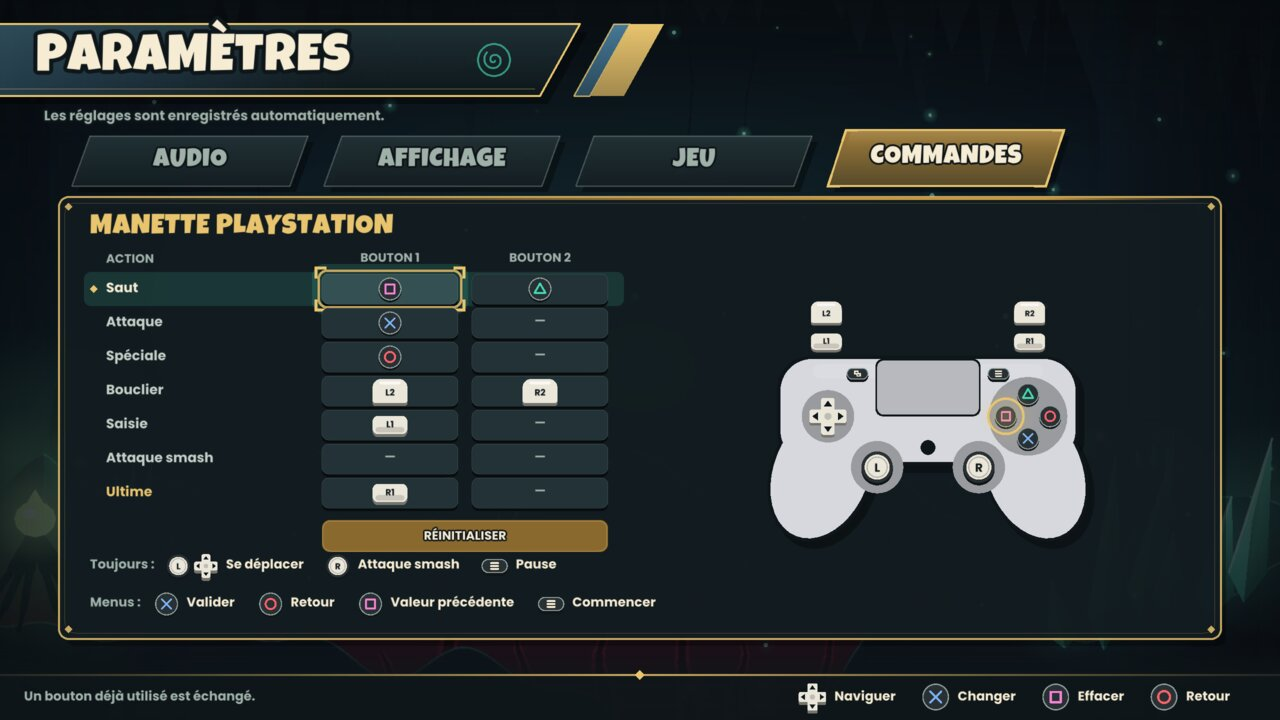
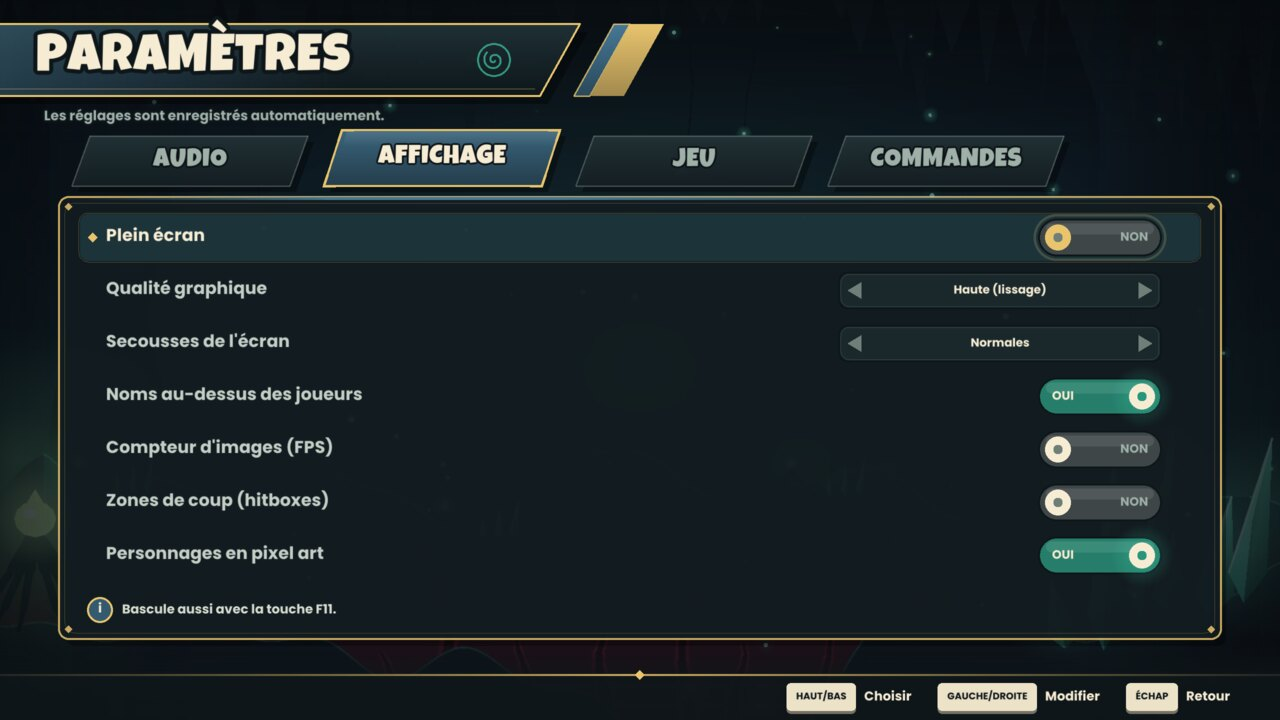
Version 5.0: pixel-art toggle, element-colored effects, docs and packaging
- Settings: "Personnages en pixel art" toggle in the Affichage tab
- Explosions and hit sparks take the color of their element
- Fonts: glyphs for ō/ū so ultimate names render correctly in cut-ins
- Title screen and packaging bumped to 5.0
- README rewritten for the 15 fighters, 45 ultimates, transformations,
  CPU level 10 and pixel-art characters; screenshots regenerated

Claude-Session: https://claude.ai/code/session_01FnHjUgjm12ACzaJgKtXDcE

diff --git a/src/game/screen_settings.cpp b/src/game/screen_settings.cpp
@@ -14,7 +14,7 @@ struct RowInfo {
   const char* label;
   const char* help;
 };
-const RowInfo kRows[3][6] = {
+const RowInfo kRows[3][7] = {
     {{"Volume général", "Volume de tout le jeu."},
      {"Musique", "Volume des musiques des menus et des combats."},
      {"Effets sonores", "Coups, sauts, K.O., cris de la foule..."},
@@ -24,20 +24,21 @@ const RowInfo kRows[3][6] = {
      {"Secousses de l'écran", "Tremblements de la caméra lors des gros coups et des K.O."},
      {"Noms au-dessus des joueurs", "Affiche J1, J2... ou CPU au-dessus de chaque combattant."},
      {"Compteur d'images (FPS)", "Affiche le nombre d'images par seconde en haut à gauche."},
-     {"Zones de coup (hitboxes)", "Montre les zones d'attaque pendant les combats (touche F1)."}},
+     {"Zones de coup (hitboxes)", "Montre les zones d'attaque pendant les combats (touche F1)."},
+     {"Personnages en pixel art", "Les combattants sont dessinés comme des sprites en pixel art (les menus restent lisses)."}},
     {{"Vies par défaut", "Nombre de vies de chaque combattant au début d'un match."},
      {"Orbe Clash", "L'orbe flottante qui remplit d'un coup la barre d'ulti."},
      {"Armes", "Des armes tombent du ciel : chaque combattant ramasse les siennes en marchant dessus."},
      {"Niveau des ordinateurs", "Niveau par défaut des combattants contrôlés par l'ordinateur (1 à 10 : le niveau 10 frappe deux fois plus fort)."},
      {"Tout réinitialiser", "Remet tous les paramètres et toutes les touches par défaut."}},
 };
-const int kRowCounts[4] = {4, 6, 5, kActionCount + 1};  // controls: the actions + the reset buttons
+const int kRowCounts[4] = {4, 7, 5, kActionCount + 1};  // controls: the actions + the reset buttons
 
 Rectangle tabRect(int i) { return {72.0f + i * 252.0f, 136, 236, 50}; }
-Rectangle rowRect(int row) { return {kPanel.x + 20, kPanel.y + 20 + row * 60.0f, kPanel.width - 40, 52}; }
+Rectangle rowRect(int row) { return {kPanel.x + 20, kPanel.y + 16 + row * 53.0f, kPanel.width - 40, 47}; }
 Rectangle widgetRect(int row) {
   Rectangle r = rowRect(row);
-  return {r.x + 640, r.y + 9, 440, 34};
+  return {r.x + 640, r.y + 6.5f, 440, 34};
 }
 Rectangle sliderRect(int row) {
   Rectangle w = widgetRect(row);
@@ -306,6 +307,7 @@ void App::changeSetting(int row, int delta) {
       if (row == 3) s.playerTags = !s.playerTags;
       if (row == 4) s.showFps = !s.showFps;
       if (row == 5) s.showHitboxes = !s.showHitboxes;
+      if (row == 6) s.pixelArt = !s.pixelArt;
       break;
     case 2:
       if (row == 0) s.stocks = 1 + (s.stocks - 1 + delta + 5) % 5;
@@ -567,7 +569,7 @@ void App::drawSettings() {
         ui::diamond({rr.x + 13, rr.y + rr.height * 0.5f}, 5, ui::kGold);
         help = kRows[setTab_][r].help;
       }
-      drawText(kRows[setTab_][r].label, rr.x + 26, rr.y + 12, 24, foc ? ui::kCream : Color{196, 206, 198, 255});
+      drawText(kRows[setTab_][r].label, rr.x + 26, rr.y + 9, 24, foc ? ui::kCream : Color{196, 206, 198, 255});
       Rectangle w = widgetRect(r);
       switch (widgetFor(setTab_, r)) {
         case Widget::Slider: {
@@ -577,7 +579,11 @@ void App::drawSettings() {
           break;
         }
         case Widget::Toggle: {
-          bool on = setTab_ == 1 ? (r == 0 ? s.fullscreen : r == 3 ? s.playerTags : r == 4 ? s.showFps : s.showHitboxes)
+          bool on = setTab_ == 1 ? (r == 0   ? s.fullscreen
+                                    : r == 3 ? s.playerTags
+                                    : r == 4 ? s.showFps
+                                    : r == 6 ? s.pixelArt
+                                             : s.showHitboxes)
                                  : r == 2 ? s.weapons : s.items;
           ui::toggle({w.x + w.width - 120, w.y, 120, w.height}, on, foc, t);
           break;

diff --git a/src/game/fx.cpp b/src/game/fx.cpp
@@ -309,16 +309,18 @@ void Fx::elementBurst(Vec2 pos, Vec2 dir, HitFx fx, float heavy) {
 }
 
 void Fx::explosion(Vec2 pos, float r, HitFx fx) {
-  const bool cursed = fx == HitFx::Cursed;
-  const Color hot = cursed ? Color{255, 150, 190, 255} : Color{255, 238, 170, 255};
-  const Color mid = cursed ? Color{220, 40, 90, 255} : Color{255, 120, 30, 255};
+  // Fire and plain blasts burn orange; the other elements explode in their own colours.
+  const bool fiery = fx == HitFx::Fire || fx == HitFx::Normal || fx == HitFx::Slash;
+  const bool elemental = !fiery;
+  const Color hot = fx == HitFx::Cursed ? Color{255, 150, 190, 255} : fiery ? Color{255, 238, 170, 255} : hitFxGlow(fx);
+  const Color mid = fx == HitFx::Cursed ? Color{220, 40, 90, 255} : fiery ? Color{255, 120, 30, 255} : hitFxColor(fx);
   add(PK::Flash, pos, {}, 12, r * 0.6f, r * 2.0f, hot);
   Particle& b = add(PK::Burst, pos, {}, 11, r * 0.9f, r * 2.4f, hot);
   b.rot = rng_.range(0, 2 * kPi);
   for (int i = 0; i < 7; ++i) {
     Particle& p = add(PK::Fireball, pos + rdir() * rng_.range(0.0f, r * 0.35f), rdir() * 1.6f + Vec2{0.0f, -0.6f},
                       rng_.range(22, 34), r * 0.25f, r * rng_.range(0.6f, 0.9f), hot, -0.02f, 0.93f);
-    p.color2 = cursed ? Color{50, 10, 50, 255} : Color{56, 46, 44, 255};
+    p.color2 = elemental ? shade(mid, 0.3f) : Color{56, 46, 44, 255};
   }
   add(PK::Ring, pos, {}, 16, r * 0.3f, r * 1.9f, withAlpha(WHITE, 0.9f));
   add(PK::Ring, pos, {}, 24, r * 0.2f, r * 2.6f, withAlpha(mid, 0.7f));
@@ -326,7 +328,7 @@ void Fx::explosion(Vec2 pos, float r, HitFx fx) {
   for (int i = 0; i < 10; ++i) {
     Vec2 v = rdir() * rng_.range(4.0f, 11.0f);
     v.y = -std::fabs(v.y) - 2.0f;
-    add(PK::Debris, pos, v, rng_.range(30, 46), rng_.range(3.0f, 6.0f), 0.0f, cursed ? Color{80, 30, 70, 255} : Color{86, 74, 66, 255},
+    add(PK::Debris, pos, v, rng_.range(30, 46), rng_.range(3.0f, 6.0f), 0.0f, elemental ? shade(mid, 0.45f) : Color{86, 74, 66, 255},
         0.45f, 0.98f);
   }
   for (int i = 0; i < 14; ++i)

diff --git a/src/game/screen_title.cpp b/src/game/screen_title.cpp
@@ -157,7 +157,7 @@ void App::drawTitle() {
     drawTextOutlined(txt, x, 368, 26, withAlpha(ui::kCream, a), withAlpha(ui::kInk, a), 2.5f);
     ui::prompt("ENTRÉE", ui::Btn::Start, x + textWidth(txt, 26) + 14, 381 - ph * 0.5f, ph, true);
   }
-  drawTextOutlined("v4.0", kScreenW - 54, kScreenH - 26, 15, ui::kCream, ui::kInk, 2.0f);
+  drawTextOutlined("v5.0", kScreenW - 54, kScreenH - 26, 15, ui::kCream, ui::kInk, 2.0f);
   drawTextOutlined("C++ & raylib", 16, kScreenH - 26, 15, ui::kCream, ui::kInk, 2.0f);
   if (f >= 22 && f < 40) DrawRectangle(0, 0, kScreenW, kScreenH, withAlpha({255, 248, 228, 255}, (40 - f) / 18.0f * 0.7f));
 }

diff --git a/src/game/match_screen.cpp b/src/game/match_screen.cpp
@@ -328,7 +328,7 @@ MatchScreen::Result MatchScreen::update() {
   if (ultShow_ >= -1 && !ultFired_ && m_.started() && m_.fighters.size() >= 2) {
     Fighter& f = m_.fighters[0];
     Fighter& v = m_.fighters[1];
-    if (m_.frame % 30 == 0 && f.grounded && v.grounded) {  // both standing: face off, then the ultimate
+    if (m_.frame > 260 && m_.frame % 30 == 0 && f.grounded && v.grounded) {  // after "GO!", both standing
       if (ultShow_ >= 0 && f.weapon != ultShow_) m_.equipWeapon(f, ultShow_);
       f.pos = {-170.0f, 0.0f};
       f.facing = 1;

diff --git a/src/game/fonts.cpp b/src/game/fonts.cpp
@@ -18,6 +18,7 @@ std::vector<int> frenchCodepoints() {
   for (int c = 32; c < 127; ++c) cps.push_back(c);
   for (int c = 160; c < 256; ++c) cps.push_back(c);  // Latin-1: é è à ç ô « » ...
   for (int c : {0x152, 0x153, 0x2013, 0x2014, 0x2019, 0x201C, 0x201D, 0x2022, 0x2026, 0x20AC}) cps.push_back(c);
+  for (int c : {0x14C, 0x14D, 0x16A, 0x16B}) cps.push_back(c);  // Ō ō Ū ū (Tenshō, Bijūdama...)
   return cps;
 }
 

diff --git a/src/game/common.hpp b/src/game/common.hpp
@@ -101,7 +101,7 @@ inline std::string upperFr(std::string s) {
       ++i;
     } else if (c == 0xC5 && i + 1 < s.size()) {
       unsigned char d = (unsigned char)s[i + 1];
-      if (d == 0x8D || d == 0x93) s[i + 1] = char(d - 1);  // ō, œ
+      if (d == 0x8D || d == 0x93 || d == 0xAB) s[i + 1] = char(d - 1);  // ō, œ, ū
       ++i;
     }
   }

diff --git a/README.md b/README.md
@@ -5,53 +5,75 @@ on fait monter le **pourcentage de dégâts** de l'adversaire jusqu'à pouvoir l
 
 ![Écran titre](docs/titre.jpg)
 
-Les personnages sont dessinés et animés par le code (squelette + cinématique inverse), les sons et la
-musique sont synthétisés au lancement. Les seules ressources sont deux polices libres et la base de
-manettes SDL, intégrées directement dans l'exécutable : il n'y a aucun fichier à installer à côté.
+Les personnages sont dessinés et animés par le code (squelette + cinématique inverse) puis affichés en
+**pixel art**, comme des sprites faits à la main (contour sombre d'un pixel, aplats francs) ; les menus,
+les arènes et les effets restent lisses. Les sons et la musique sont synthétisés au lancement. Les seules
+ressources sont deux polices libres et la base de manettes SDL, intégrées directement dans l'exécutable :
+il n'y a aucun fichier à installer à côté.
 
-La direction artistique s'inspire de *Zelda: Tears of the Kingdom* : îles célestes, ruines Zonaï aux
-runes turquoise, profondeurs éclairées par des racines lumineuses, personnages en ombrage « peint ».
-Tout est dessiné par le code (aucune image ni logo repris du jeu).
+La direction artistique des arènes s'inspire de *Zelda: Tears of the Kingdom* : îles célestes, ruines
+Zonaï aux runes turquoise, profondeurs éclairées par des racines lumineuses. Tout est dessiné par le code
+(aucune image ni logo repris d'un jeu ou d'un manga).
 
-| Menu principal | Sélection des 9 combattants (icônes manette) |
+| Menu principal | Sélection des 15 combattants |
 |---|---|
 | ![Menu principal](docs/menu.jpg) | ![Sélection](docs/selection.jpg) |
-| **Choix de l'arène** | **Combat : la hache de Kratos tombe du ciel** |
-| ![Arène](docs/arene.jpg) | ![Combat](docs/combat.jpg) |
-| **Cut-in d'ultime : Sphère de l'Infini (Gojo)** | **Ultime : Sanctuaire démoniaque (Sukuna)** |
-| ![Cut-in](docs/cutin.jpg) | ![Ultime](docs/attaque_finale.jpg) |
+| **Combat : Kenpachi, Sasuke, Naruto et le Chasseur** | **Cut-in d'ultime : Bijūdama (Naruto)** |
+| ![Combat](docs/combat.jpg) | ![Cut-in](docs/cutin.jpg) |
+| **Ultime de Tensa Zangetsu : Vasto Lorde et son Cero** | **Transformation : Segunda Etapa (Ulquiorra)** |
+| ![Ultime](docs/attaque_finale.jpg) | ![Transformation](docs/transformation.jpg) |
 | **« Impact frame » façon manga** | **Entraînement** |
 | ![Impact frame](docs/impact.jpg) | ![Entraînement](docs/entrainement.jpg) |
-| **Paramètres (schéma de la manette)** | **Résultats** |
+| **Paramètres (pixel art)** | **Résultats** |
 | ![Paramètres](docs/parametres.jpg) | ![Résultats](docs/resultats.jpg) |
+
+**Chaque ultime est unique** (45 en tout) : Vasto Lorde, Violet imaginaire, Amaterasu, Kendō, Sanctuaire
+démoniaque, Shuriken du Susanoo, Barrage Uzumaki, Fouet du Chaos, Dragon de lumière...
+
+![Neuf des 45 ultimes](docs/ultimes.jpg)
 
 ## Le jeu
 
 - **Combat** : de 2 à 4 combattants, humains (2 sur le clavier + manettes) et/ou **ordinateurs de
-  niveau 1 à 9**, de 1 à 5 vies.
+  niveau 1 à 10** (le **niveau 10** joue comme un niveau 9 parfait et **frappe deux fois plus fort**),
+  de 1 à 5 vies.
 - **Entraînement** : vies infinies face à un **mannequin** (immobile, qui saute, qui se protège, ou
   piloté par l'ordinateur), réinitialisation des positions, **compteur de combos** et dégâts du combo,
   affichage des zones de coup. Tout se règle dans le menu pause.
-- **9 combattants** inspirés de séries cultes (hommages de fans, dessinés par le code), chacun avec ses stats,
-  4 attaques spéciales, une attaque ultime et **2 armes à ramasser** :
-  | | Univers | Spéciales | Ultime | Armes |
-  |---|---|---|---|---|
-  | **ASTA** | Black Clover | Lame anti-magie, Météore noir, Ouragan noir, Renvoi anti-magie (renvoie les projectiles) | Black Divider | Épée pourfendeuse, Épée habitante |
-  | **YUNO** | Black Clover | Lames de vent, Tempête tranchante (tornade qui aspire), Envol de Sylphe, Tourbillon | Tempête de Zéphyr | Grimoire à quatre trèfles, Lance de l'esprit |
-  | **ICHIGO** | Bleach | Getsuga Tenshō, Shunpo, Tsukiyomi, Cero (rayon) | Mugetsu | Zangetsu (Shikai), Tensa Zangetsu (Bankai) |
-  | **BYAKUYA** | Bleach | Senbonzakura (nuée de pétales), Senka (attaque dans le dos), Shunpo céleste, Danku | Senbonzakura Kageyoshi | Senbonzakura (Shikai), Kageyoshi (Bankai) |
-  | **LINK** | Zelda: Tears of the Kingdom | Arc, Bombe Zonaï, Ascension, Emprise (saisie à distance) | Sceau de lumière | Épée de légende, Arc de lumière |
-  | **GANONDORF** | Zelda: Tears of the Kingdom | Sphère de malice, Ruée du Roi Démon, Ascension maudite, Fléau de malice | Bête du Fléau | Épée du Roi Démon, Lances de malice |
-  | **KRATOS** | God of War | Rage spartiate, Charge du bouclier, Bond de Sparte, Parade du bouclier | Rage de Sparte | Hache Léviathan (revient dans la main), Lames du Chaos |
-  | **GOJO** | Jujutsu Kaisen | Rouge (explose), Bleu (attire), Téléportation, Infini (renvoie les projectiles) | Sphère de l'Infini puis Violet | Technique : Violet, Six Yeux |
-  | **SUKUNA** | Jujutsu Kaisen | Démantèlement, Clivage, Envol maudit, Fûga (flèche de feu qui explose) | Sanctuaire démoniaque | Kamutoke, Doigt de Sukuna |
+- **15 combattants** inspirés de séries cultes (hommages de fans, dessinés par le code), chacun avec ses
+  stats, 4 attaques spéciales, **2 armes à ramasser** et **3 ultimes** : un à mains nues et un par arme.
+  | | Univers | Spéciales | Ultime | Arme 1 → son ultime | Arme 2 → son ultime |
+  |---|---|---|---|---|---|
+  | **ASTA** | Black Clover | Lame anti-magie, Météore noir, Ouragan noir, Renvoi anti-magie (renvoie les projectiles) | Black Divider | Épée pourfendeuse → Black Meteorite (monte avec sa victime et retombe comme un météore) | Épée habitante → Union démoniaque (transformation : aile et bras du diable) |
+  | **YUNO** | Black Clover | Lames de vent, Tempête tranchante (tornade qui aspire), Envol de Sylphe, Tourbillon | Tempête de Zéphyr | Grimoire à quatre trèfles → Pluie de lames (sur tous les adversaires) | Lance de l'esprit → Lance de Zéphyr (aspire tout sur son passage) |
+  | **ICHIGO** | Bleach | Getsuga Tenshō, Shunpo, Tsukiyomi, Cero (rayon) | Mugetsu (cheveux longs du Getsuga final) | Zangetsu (Shikai) → Getsuga Tenshō géant | Tensa Zangetsu (Bankai) → Vasto Lorde : il se transforme, attrape l'adversaire et lui tire un méga Cero à bout portant |
+  | **BYAKUYA** | Bleach | Senbonzakura (nuée de pétales), Senka (attaque dans le dos), Shunpo céleste, Danku | Senbonzakura Kageyoshi (immobilise tout le monde dans la tempête) | Senbonzakura (Shikai) → Gōkei (une sphère de lames autour de chaque adversaire) | Kageyoshi (Bankai) → Shūkei : Hakuteiken (ailes de lumière) |
+  | **KENPACHI** | Bleach | Taille du démon (à charger), Assaut sauvage (super armure), Saut du démon, Garde ouverte (contre) | Kendō : il apparaît devant l'adversaire, le frappe puis le pourfend à deux mains | Nozarashi (Shikai) → Taille de Nozarashi (fend l'arène) | Bankai → Démon rouge (transformation : peau rouge, cornes, super armure) |
+  | **ULQUIORRA** | Bleach | Cero (rayon), Sonído, Sonído céleste, Bala | Cero Oscuras | Murciélago (Resurrección) → Lanza del Relámpago (javelot qui explose) | Segunda Etapa → transformation : corps noir, ailes de chauve-souris, queue |
+  | **NARUTO** | Naruto | Rasengan (à charger), Multi-clonage (un clone court sur l'ennemi), Clone tremplin, Substitution (contre) | Barrage Uzumaki (les clones l'envoient en l'air) | Mode Ermite → Rasenshuriken | Chakra de Kurama → Bijūdama (le renard à neuf queues apparaît) |
+  | **SASUKE** | Naruto | Katon : boule de feu, Chidori, Garuda, Chidori Nagashi | Kirin (le dragon de foudre tombe sur l'ennemi le plus proche) | Arc de Susanoo → Flèche d'Indra (Susanoo violet) | Mangekyō Sharingan → Amaterasu (flammes noires collées à chaque adversaire) |
+  | **KAKASHI** | Naruto | Suiton : dragon aqueux, Raikiri, Shunshin, Ninken : crocs (saisie) | Raikiri | Sharingan → Kamui (un vortex sur l'ennemi le plus proche) | Mangekyō double → Shuriken du Susanoo (Susanoo bleu) |
+  | **GOJO** | Jujutsu Kaisen | Rouge (explose), Bleu (attire), Téléportation, Infini (renvoie les projectiles) | Bleu : puissance maximale (un vortex sur l'ennemi le plus proche) | Technique : Violet → Violet imaginaire (le rouge et le bleu fusionnent) | Six Yeux → Extension du territoire : Sphère de l'Infini |
+  | **SUKUNA** | Jujutsu Kaisen | Démantèlement, Clivage, Envol maudit, Fûga (flèche de feu qui explose) | Sanctuaire démoniaque | Kamutoke → la foudre frappe chaque adversaire | Doigt de Sukuna → Fûga (« Ouverture » : l'arène brûle) |
+  | **LINK** | Zelda: Tears of the Kingdom | Arc, Bombe Zonaï, Ascension, Emprise (saisie à distance) | Dragon de lumière | Épée de légende → rafale puis rayon de l'épée | Arc de lumière → Pluie de lumière (piliers sur chaque adversaire) |
+  | **GANONDORF** | Zelda: Tears of the Kingdom | Sphère de malice, Ruée du Roi Démon, Ascension maudite, Fléau de malice | Dragon démoniaque | Épée du Roi Démon → Rage du Roi Démon | Lances de malice → Piliers de malice (sous chaque adversaire) |
+  | **KRATOS** | God of War | Rage spartiate, Charge du bouclier, Bond de Sparte, Parade du bouclier | Rage de Sparte (transformation : poings de feu, super armure) | Hache Léviathan → Fimbulwinter (tout le monde gèle, puis la glace éclate) | Lames du Chaos → Fouet du Chaos (les chaînes attrapent de loin, combo de fouet) |
+  | **HUNTER** | Monster Hunter | Taille chargée, Coup d'épaule (super armure), Griffe-grappin, Bombe-tonneau G | Taille chargée vraie | Lame chargée → Décharge amplifiée (fioles qui explosent en chaîne) | Lancecanon → Feu du Wyvern |
 - **Les armes** : de temps en temps, une arme tombe du ciel dans un rayon de lumière, au-dessus d'une
   plateforme. Chaque arme appartient à **un combattant** (son portrait flotte au-dessus) : lui seul peut
   la ramasser, **en marchant dessus**. Pendant une vingtaine de secondes (anneau autour du portrait dans
-  le HUD), il frappe plus fort et plus loin, ses coups prennent l'élément de l'arme et certaines spéciales
-  changent (la hache de Kratos se lance et revient, l'Épée de légende tire un rayon, le Bankai d'Ichigo
-  lance un Getsuga noir...). Un K.O. fait perdre l'arme. Les ordinateurs vont chercher les leurs.
-  Réglage : **ARMES : OUI/NON** dans la sélection des combattants ou dans Paramètres → Jeu.
+  le HUD), il frappe plus fort et plus loin, ses coups prennent l'élément de l'arme, certaines spéciales
+  changent (la hache de Kratos se lance et revient, l'Épée de légende tire un rayon, Amaterasu remplace la
+  boule de feu de Sasuke...) et **son ultime devient celui de l'arme**. Un K.O. fait perdre l'arme. Les
+  ordinateurs vont chercher les leurs. Réglage : **ARMES : OUI/NON** dans la sélection des combattants ou
+  dans Paramètres → Jeu.
+- **Les ultimes** : chacun a sa cinématique (cut-in avec son nom, décor plein écran : Hueco Mundo, le
+  Sanctuaire démoniaque, le crâne de reiatsu de Kenpachi, un wyvern, le Mangekyō...). Certains
+  **attrapent** la victime (elle est tenue pendant le combo puis éjectée), d'autres **frappent chaque
+  adversaire** où qu'il soit (après un avertissement au sol), apparaissent **devant l'ennemi le plus
+  proche**, ou **transforment** le combattant pour une dizaine de secondes (Rage de Sparte, Union
+  démoniaque, Démon rouge, Segunda Etapa). Les ultimes traversent les boucliers et ne peuvent pas être
+  contrés.
 - **Effets à la Dragon Ball FighterZ** : « impact frames » (l'écran passe en noir et blanc façon manga
   sur les coups signature), cut-in avec le portrait et le nom de l'ultime, rayons, ondes de choc,
   arrière-plans des extensions de territoire, gerbes d'étincelles propres à chaque élément.
@@ -60,17 +82,18 @@ Tout est dessiné par le code (aucune image ni logo repris du jeu).
   bouclier qui s'use (et se brise !), roulades, esquives au sol et en l'air, saisies + 4 projections,
   rebords (accroche, remontée, attaque, roulade, saut), retombée en culbute + *tech*, chute libre après
   la remontée, attaques smash à charger, super armure, contres, projectiles, plateformes traversables
-  et mobiles.
+  et mobiles. Les zones de coup des épées suivent la lame.
 - **La barre d'ulti** : sous forme de cellules d'énergie Zonaï au-dessus de chaque carte de dégâts, elle
   se remplit **en frappant** (0,45 point par % infligé) **et en prenant des coups** (0,35 point par %
   reçu). Pleine, le combattant s'entoure d'une aura de son élément, la carte affiche « ULTI PRÊTE ! » avec
-  le bouton à presser, et la touche **Ultime** déclenche **l'ultime du combattant** (cut-in avec son nom,
-  extension de territoire, rayon ou tempête selon le personnage). Les ordinateurs s'en servent aussi.
+  le bouton à presser, et la touche **Ultime** déclenche l'ultime. Les ordinateurs s'en servent aussi
+  (de loin pour les ultimes qui visent, face à la cible pour les rayons).
 - **L'Orbe Clash** (l'équivalent de la Smash Ball) : elle apparaît de temps en temps et flotte au-dessus
   de l'arène. Celui qui la brise **remplit d'un coup sa barre d'ulti**.
 - **3 arènes** : **Profondeurs** (abîme, racines lumineuses et cristaux), **Sanctuaire** (temple Zonaï en
   ruine au soleil couchant) et **Îles Célestes** (îles flottantes, cascades, plateforme mobile).
-- **Animations** : transitions fluides entre les poses, élan et accompagnement des coups, traînées des
+- **Animations** : transitions fluides entre les poses, élan et accompagnement des coups, postures propres
+  aux spéciales (bander un arc, mudras, bras levé, doigt pointé, taille à deux mains...), traînées des
   attaques, étirements au saut et tassements à l'atterrissage, capes, écharpes et cheveux qui suivent
   le mouvement, respiration et clignements d'yeux.
 - Effets : étincelles, traînées d'éjection, rayon de K.O., tremblement d'écran, bulles quand un
@@ -85,8 +108,9 @@ Le menu **Paramètres** a quatre onglets, et tout est enregistré automatiquemen
 - **Audio** : volume général, musique, effets sonores (et un bouton pour tester).
 - **Affichage** : plein écran, qualité graphique (*Haute* = contours lissés, rendu en double
   résolution ; *Normale* pour les petites machines), secousses de l'écran, noms au-dessus des joueurs,
-  compteur d'images (FPS), zones de coup.
-- **Jeu** : nombre de vies, Orbe Clash, armes, niveau des ordinateurs par défaut, tout réinitialiser.
+  compteur d'images (FPS), zones de coup, **personnages en pixel art** (OUI par défaut ; NON = dessin
+  lisse).
+- **Jeu** : nombre de vies, Orbe Clash, armes, niveau des ordinateurs par défaut (1 à 10), tout réinitialiser.
 - **Commandes** : **toutes les touches des deux claviers sont réassignables** (une touche déjà prise
   est échangée). Quand une manette est utilisée, l'onglet montre **ses boutons, réassignables eux
   aussi** : deux boutons par action (saut, attaque, spéciale, bouclier, saisie, attaque smash, ultime),
@@ -158,9 +182,9 @@ afficher les zones de coup. Pour voir les boutons d'une manette sans en avoir un
 
 Deux archives prêtes à lancer se fabriquent avec `scripts/package_release.sh` (dans `dist/`) :
 
-- **Linux 64 bits** (`SuperClashBros-4.0-linux-x64.tar.gz`, Ubuntu 24.04 ou plus récent) : décompresser,
+- **Linux 64 bits** (`SuperClashBros-5.0-linux-x64.tar.gz`, Ubuntu 24.04 ou plus récent) : décompresser,
   puis dans un terminal ouvert dans le dossier : `./super_clash`.
-- **Windows 64 bits** (`SuperClashBros-4.0-windows-x64.zip`) : décompresser, puis double-cliquer sur
+- **Windows 64 bits** (`SuperClashBros-5.0-windows-x64.zip`) : décompresser, puis double-cliquer sur
   `super_clash.exe` (si Windows affiche « Windows a protégé votre ordinateur » : « Informations
   complémentaires » puis « Exécuter quand même »).
 
@@ -203,7 +227,8 @@ cmake -S . -B build -DCMAKE_BUILD_TYPE=Release -DFETCHCONTENT_SOURCE_DIR_RAYLIB=
 
 ```
 super_clash --demo            # match de démonstration entre 4 ordinateurs
-super_clash --demo --fighters 7,8   # ... avec ces combattants (numéros dans la grille, de 0 à 8)
+super_clash --demo --fighters 7,8   # ... avec ces combattants (numéros dans la grille, de 0 à 14)
+super_clash --demo --fighters 6,4 --ult 1   # le premier déclenche son ultime (-1 mains nues, 0 ou 1 : arme)
 super_clash --screen menu     # démarrer sur un écran : menu, settings, css, stage, training...
 super_clash --stage 2         # arène par défaut (0, 1 ou 2)
 super_clash --debug           # zones de coup visibles
@@ -224,21 +249,30 @@ Les tests vérifient la formule de recul, les coups, les K.O., chaque commande c
 smash/tilt, aériennes, bouclier, roulade, saisie, rebord, plateformes), la barre d'ulti, l'Orbe Clash et
 l'attaque finale,
 le mode entraînement, la remontée de chaque personnage depuis le vide, des dizaines de matchs complets
-entre ordinateurs, l'équilibrage et le déterminisme.
+entre ordinateurs, l'équilibrage et le déterminisme. Les **45 attaques finales** (une de base et une par
+arme pour chaque combattant) sont lancées une par une : chacune doit infliger des dégâts, relâcher l'adversaire qu'elle a
+attrapé et l'éjecter à 130 % (les transformations comme la Rage de Spartiate ou le Démon rouge doivent
+s'activer). Un coup porté
+par l'ordinateur de niveau 10 doit faire exactement deux fois les dégâts du même coup au niveau 9.
+
+On peut ne lancer qu'une partie des tests : `./build-core/sim_test ults`, `cpu10`, `weapons`,
+`recovery`, `balance`, `det`…
 
 ## Architecture
 
 ```
 src/core/   simulation pure (aucune dépendance)
   moves.hpp            données : hitboxes, projectiles, attaques, personnages
-  roster*.cpp          les 9 combattants, leurs attaques et leurs armes
+  roster*.cpp          les 15 combattants, leurs attaques et leurs armes
+  roster_kit.hpp       outils communs pour écrire les attaques (saisies, éjections, ciné d'ulti)
+  roster_ultimates.cpp les 45 attaques finales et les transformations
   weapons.cpp          armes qui tombent du ciel, ramassage, durée
   stage.cpp            les arènes
   fighter_update.cpp   machine à états des combattants (contrôles)
   fighter_physics.cpp  déplacements, collisions, atterrissages, rebords
   combat.cpp           détection des coups, recul, bouclier, contres, saisies, projectiles
   match.cpp            déroulement du match, K.O., réapparition, barre d'ulti, Orbe Clash, entraînement
-  ai.cpp               ordinateur (niveaux 1 à 9) et mannequins
+  ai.cpp               ordinateur (niveaux 1 à 10) et mannequins
 src/game/   interface raylib
   app.cpp              boucle principale, rendu suréchantillonné, transitions
   screen_title.cpp     écran titre et menu principal
@@ -250,10 +284,12 @@ src/game/   interface raylib
   ui.cpp               kit d'interface : fonds animés, tuiles, curseurs, titres en relief, boutons de manette
   settings.cpp         paramètres enregistrés et noms des touches
   fonts.cpp            polices intégrées
+  pixel.cpp            rendu pixel art des personnages (petite texture, contour, palette réduite)
   render_body.cpp      dessin des personnages (squelette + IK)
   render_weapons.cpp   dessin des armes (en main et posées au sol)
   render_items.cpp     armes posées sur l'arène
   render_vfx.cpp       rayons et arrière-plans des ultimes
+  render_ult.cpp       cinématiques propres à chaque attaque finale, avatars des transformations
   render_fighter.cpp   poses : chaque attaque anime le membre qui porte la hitbox
   render_world.cpp     décors, plateformes, projectiles, aperçus des arènes
   render_hud.cpp       pourcentages, vies, barre d'ulti, bulles hors-champ, compte à rebours
@@ -275,6 +311,6 @@ La simulation tourne à 60 images/seconde à pas fixe et est entièrement déter
   du jeu n'est repris, tout est dessiné par le code.
 - **Projet de fan, non officiel et non commercial.** Les combattants rendent hommage à *Black Clover*
   (Yūki Tabata / Shūeisha), *Bleach* (Tite Kubo / Shūeisha), *The Legend of Zelda: Tears of the Kingdom*
-  (Nintendo), *God of War* (Santa Monica Studio / Sony Interactive Entertainment) et *Jujutsu Kaisen*
-  (Gege Akutami / Shūeisha) ; ces noms et personnages appartiennent à leurs ayants droit. Tout est dessiné
+  (Nintendo), *God of War* (Santa Monica Studio / Sony Interactive Entertainment), *Jujutsu Kaisen*
+  (Gege Akutami / Shūeisha), *Naruto* (Masashi Kishimoto / Shūeisha) et *Monster Hunter* (Capcom) ; ces noms et personnages appartiennent à leurs ayants droit. Tout est dessiné
   par le code : aucune image, aucun son et aucun modèle de ces œuvres n'est utilisé.
